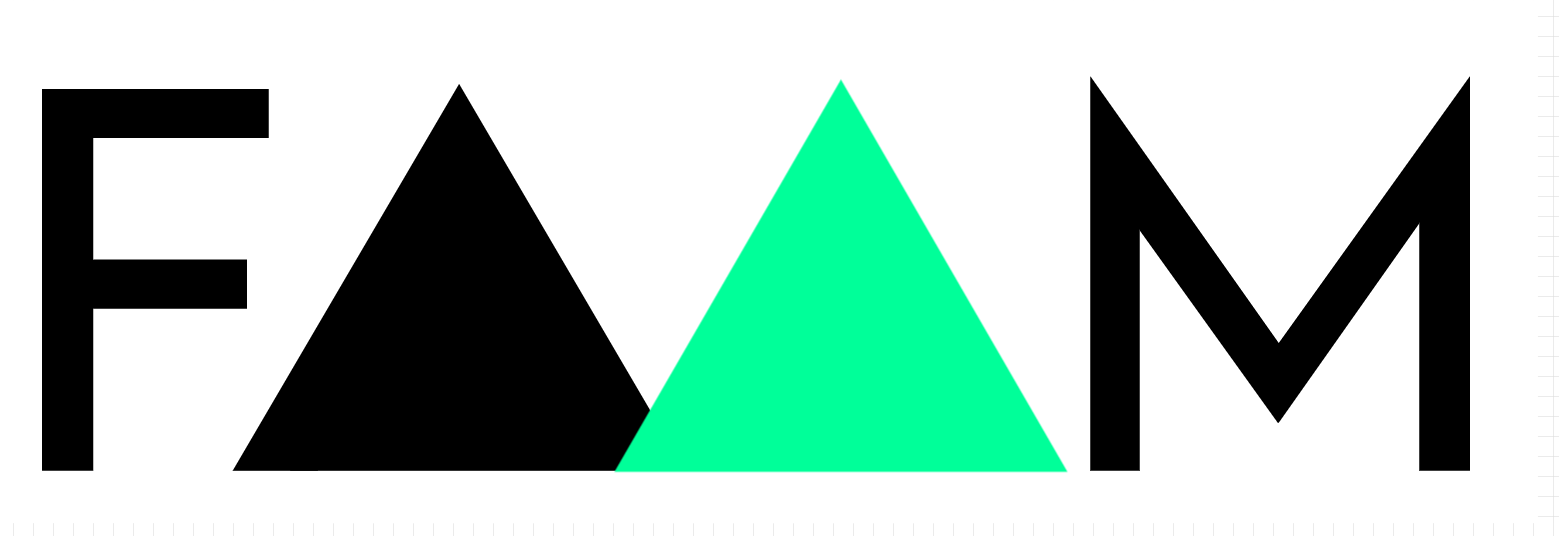
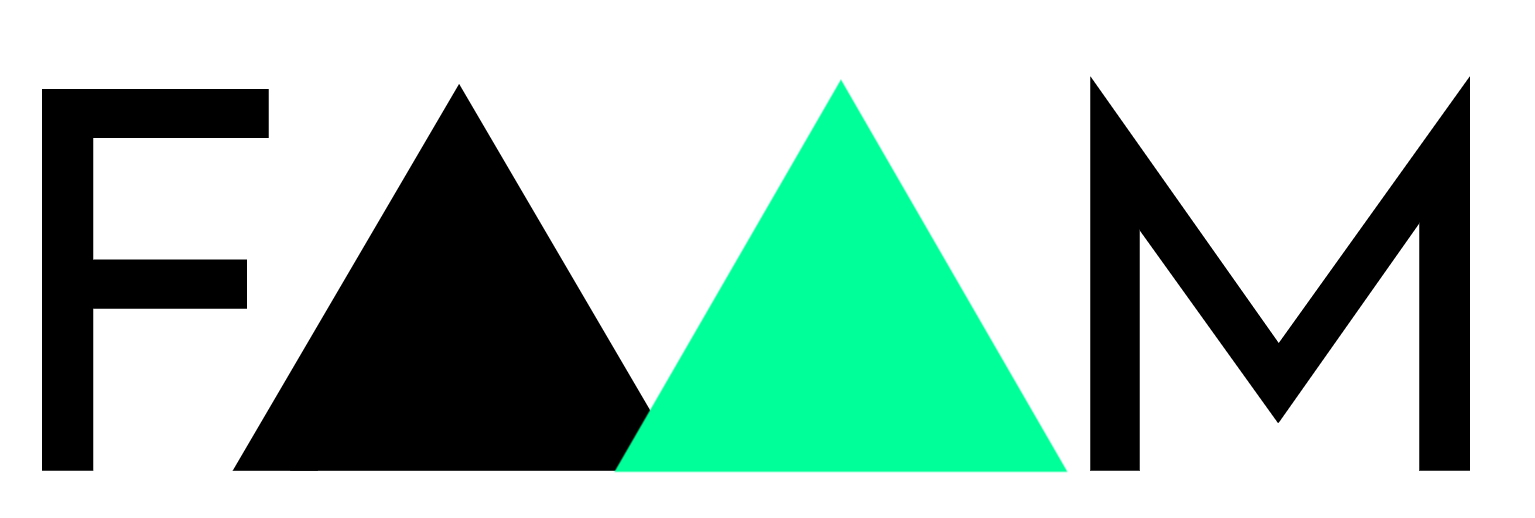
daily push

diff --git a/views/src/components/topbar/Topbar.jsx b/views/src/components/topbar/Topbar.jsx
@@ -2,7 +2,7 @@ import React from 'react'
 //Don't need this ^
 
 import "./topbar.css"
-import { Search, Person, Chat, Notifications } from "@material-ui/icons"
+import { Person, Chat, Notifications } from "@material-ui/icons"
 import {Link} from "react-router-dom"
 import {useContext, useState, useEffect, useRef} from "react"
 import {AuthContext} from "../../context/AuthContext"
@@ -90,11 +90,11 @@ const alertComingSoon = ()=>{
         <div className="topbarContainer">
             <div className="topbarRight" ref={refNotifications}>
                 <div className="topbarLinks">
-                    <Link to={`/profile/${user.username}`} style={{textDecoration:"none"}} >
-                        <span className="topbarLink">Homepage</span>
+                    <Link to={`/profile/${user.username}`} style={{textDecoration:"none"}} className="topbarLink" >
+                        <span className="topbarLink2">Homepage</span>
                     </ Link>
-                    <Link to="/" style={{textDecoration:"none"}}>
-                        <span className="topbarLink">Timeline</span>
+                    <Link to="/" style={{textDecoration:"none"}} className="topbarLink" >
+                        <span className="topbarLink2">Timeline</span>
                     </Link>
                 </div>
                 <div className="topbarIcons" >

diff --git a/views/src/components/topbar/topbar.css b/views/src/components/topbar/topbar.css
@@ -35,19 +35,38 @@
     justify-content: space-around;
     color: black;
     flex-wrap: wrap;
-
+    height: 100%;
 }
 
+.topbarLinks{
+    display: flex;
+    flex-direction: column;
+    height: 100%;
+    justify-content: space-evenly;
+    align-items:center;
+}
 
 .topbarLink{
-    margin-right: 10px;
+    /* margin-right: 10px; */
     font-size: 14px;
     cursor: pointer;
+    color: black;
+    padding: 4px;
+    box-sizing: border-box;
+    
 }
+
+.topbarLink:hover{
+    border: 2px solid black;
+     /* background-color: rgb(0,255,153); */
+    
+}
+
 
 .topbarIcons{
     display:flex;
     position: relative;
+    margin-left: 10px;
 }
 
 .topbarIconItem{
@@ -99,9 +118,6 @@
     background-color: #8843c0;
 }
 
-.topbarLink{
-    color: black;
-}
 
 .notificationContainer{
     position: absolute;

diff --git a/views/src/pages/about/About.jsx b/views/src/pages/about/About.jsx
@@ -12,7 +12,7 @@ export default function About() {
         <div className="aboutWrapper">
             <h1 className="logoWrapper">
                 <Link to="/">
-                    <img className="aboutLogo" src={PF+"default/topbarlogo.jpeg"} alt="logo"/>
+                    <img className="aboutLogo" src={PF+"default/faamLarge.png"} alt="logo"/>
                 </Link>
             </h1>
             <div className="aboutlowerWrap">

diff --git a/views/src/pages/about/about.css b/views/src/pages/about/about.css
@@ -15,6 +15,7 @@
 
 .aboutLogo{
     height: 100%;
+    max-height: 30vh;
     border-radius: 20px;
 }
 

diff --git a/views/src/components/sidebar/sidebar.css b/views/src/components/sidebar/sidebar.css
@@ -103,4 +103,5 @@
 
 .sidebarlogoImg {
     width: 100%;
+
 }
